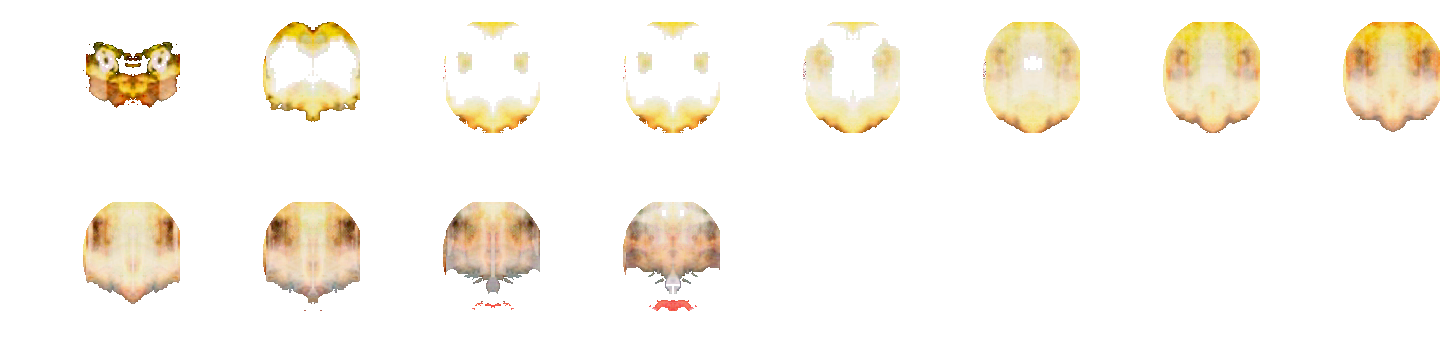
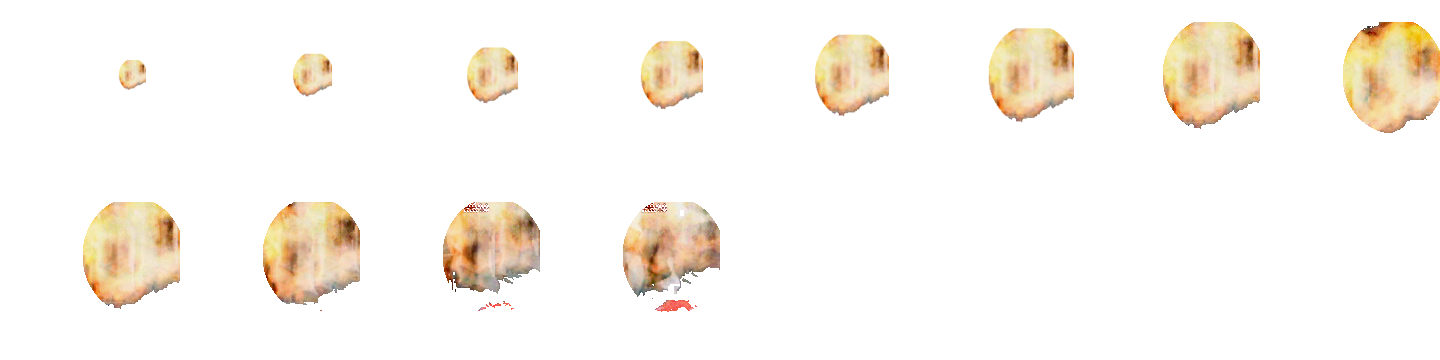
[mage-video-v238] [v238-visual-final] Remove rejected water reflection and reconstruct fire growth from exposed capture texture

diff --git a/tools/extract_mage_video_v238.py b/tools/extract_mage_video_v238.py
@@ -101,9 +101,14 @@ def main():
   # Reconstruct occluded bilateral lobes from the visible same-frame counterpart.
   # This is explicitly adapted capture reconstruction, not recovered hidden pixels.
   if name=='fire':
-   rgba[:,:,86:133]=rgba[:,:,133:180][:,:,::-1]
-  if name=='water':
-   rgba[:,:,111:152]=rgba[:,:,70:111][:,:,::-1]
+   # The later source frame exposes the whole flare. Reconstruct its filmed
+   # growth phase from that real texture, avoiding a reflected actor-shaped hole.
+   peak=rgba[min(8,len(rgba)-1)].copy()
+   for k in range(min(7,len(rgba))):
+    scale=.28+.72*k/6;im=Image.fromarray(peak);nw=round(180*scale);nh=round(180*scale)
+    im=im.resize((nw,nh),Image.Resampling.BILINEAR);frame=Image.new('RGBA',(180,180));frame.paste(im,(round(133-133*scale),round(75-75*scale)));rgba[k]=np.array(frame)
+  # Water retains the asymmetric visible source lobes, with no mirrored body.
+
   if name=='earth':
    rgba[:,:,72:134]=rgba[:,:,10:72][:,:,::-1]
   # Recorded combat labels are red; reject their residual antialiased edge.

diff --git a/docs/V238_MAGE_VIDEO_CHECKPOINT.md b/docs/V238_MAGE_VIDEO_CHECKPOINT.md
@@ -1,3 +1,6 @@
+### Visual cleanup after native review
+Actual GameView renders confirm recipient alignment and independent screen recipients. Native sequence review rejected reflected water/fire lobes. Preserve unmirrored water capture; early fire growth now uses the wholly exposed later source flare texture instead of mirrored actor holes. This fire growth reconstruction and earth reflection remain ADAPTED, not hidden native-frame recovery. New exact source reruns5video/contact/audits+3adjacent-contact cases and builds APK;30unchanged UI/promotion/retirement/Amnesia passes reused under strict diff guard. User phone/visual pending.
+
 ### V238 final audit fixture tail
 Source2c2fdfcd/run39803951433:38executed,37PASS/1FAIL. All four new visual/contact tests, UI, promotion, retirement and Amnesia passed. Aggregate executes all5 audits:4PASS; only RuntimeCombatPortAdapterAudit FALSE. Reproduced fixture defect:revivePlayer restores620,560 but the target remains near1315,715, outside100range. Reposition fixture after revive; preserve death/ledger assertions. No actual gameplay/FX/assets changed. Tail guard proves only fixture/workflow/scope/checkpoint diff; rerun failed aggregate + APK, reuse37same-source passing native tests.
 
